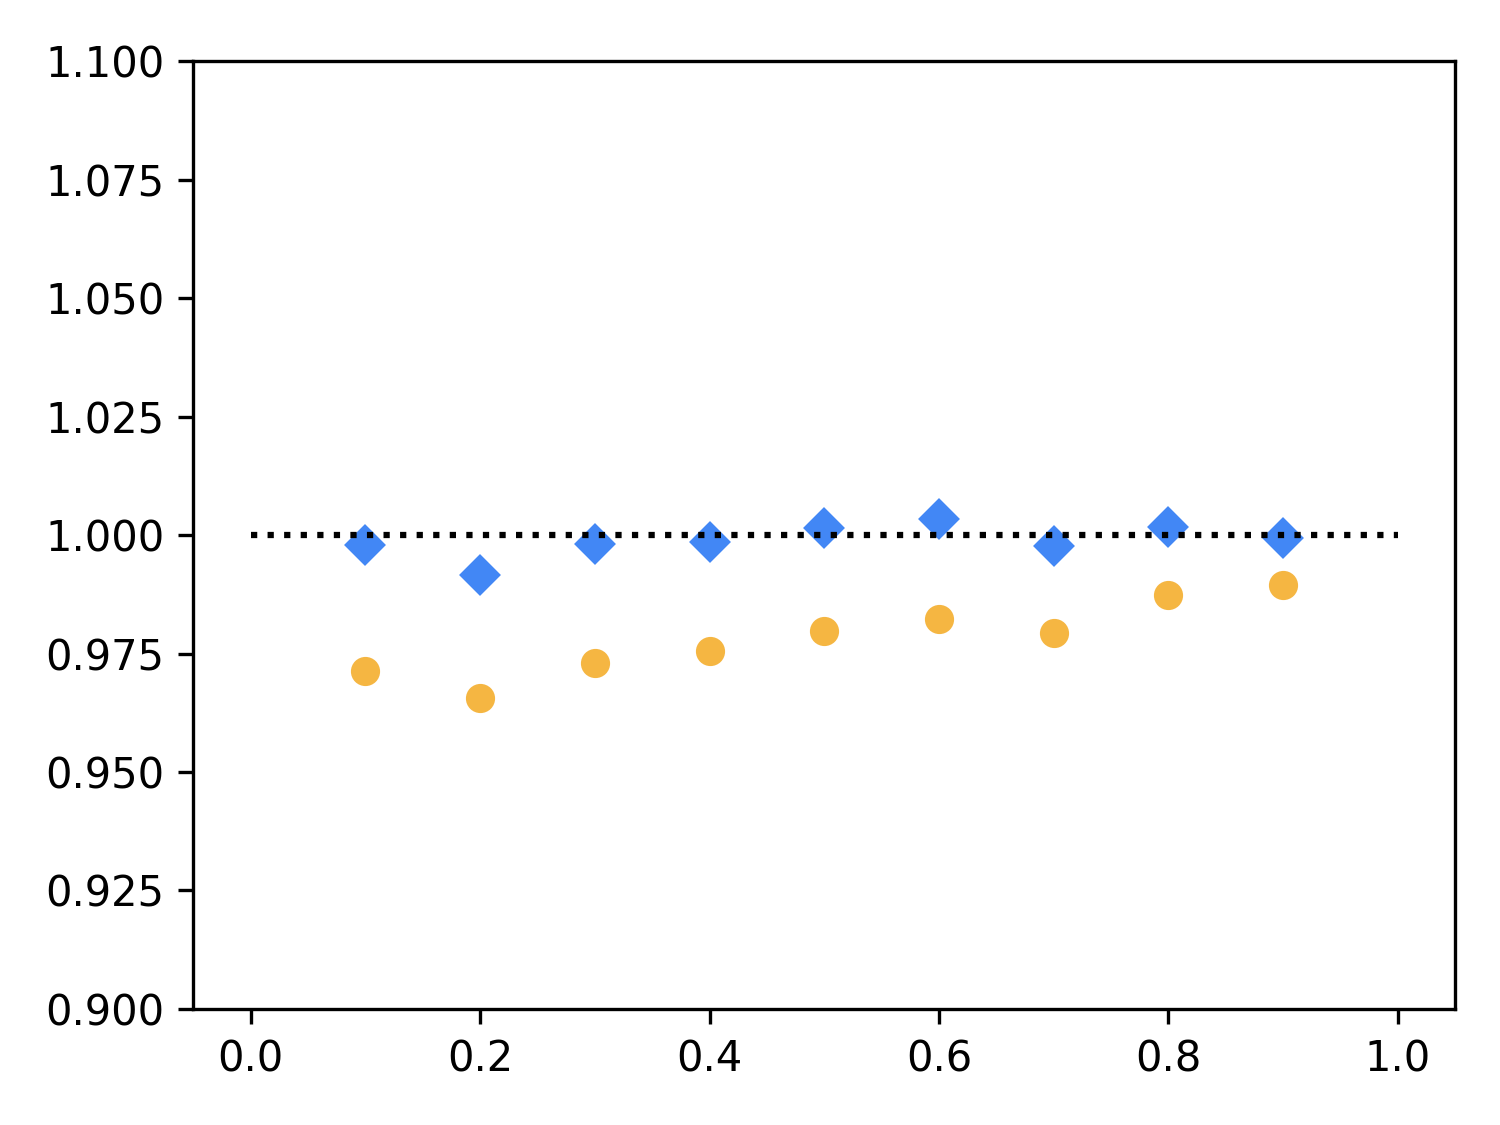
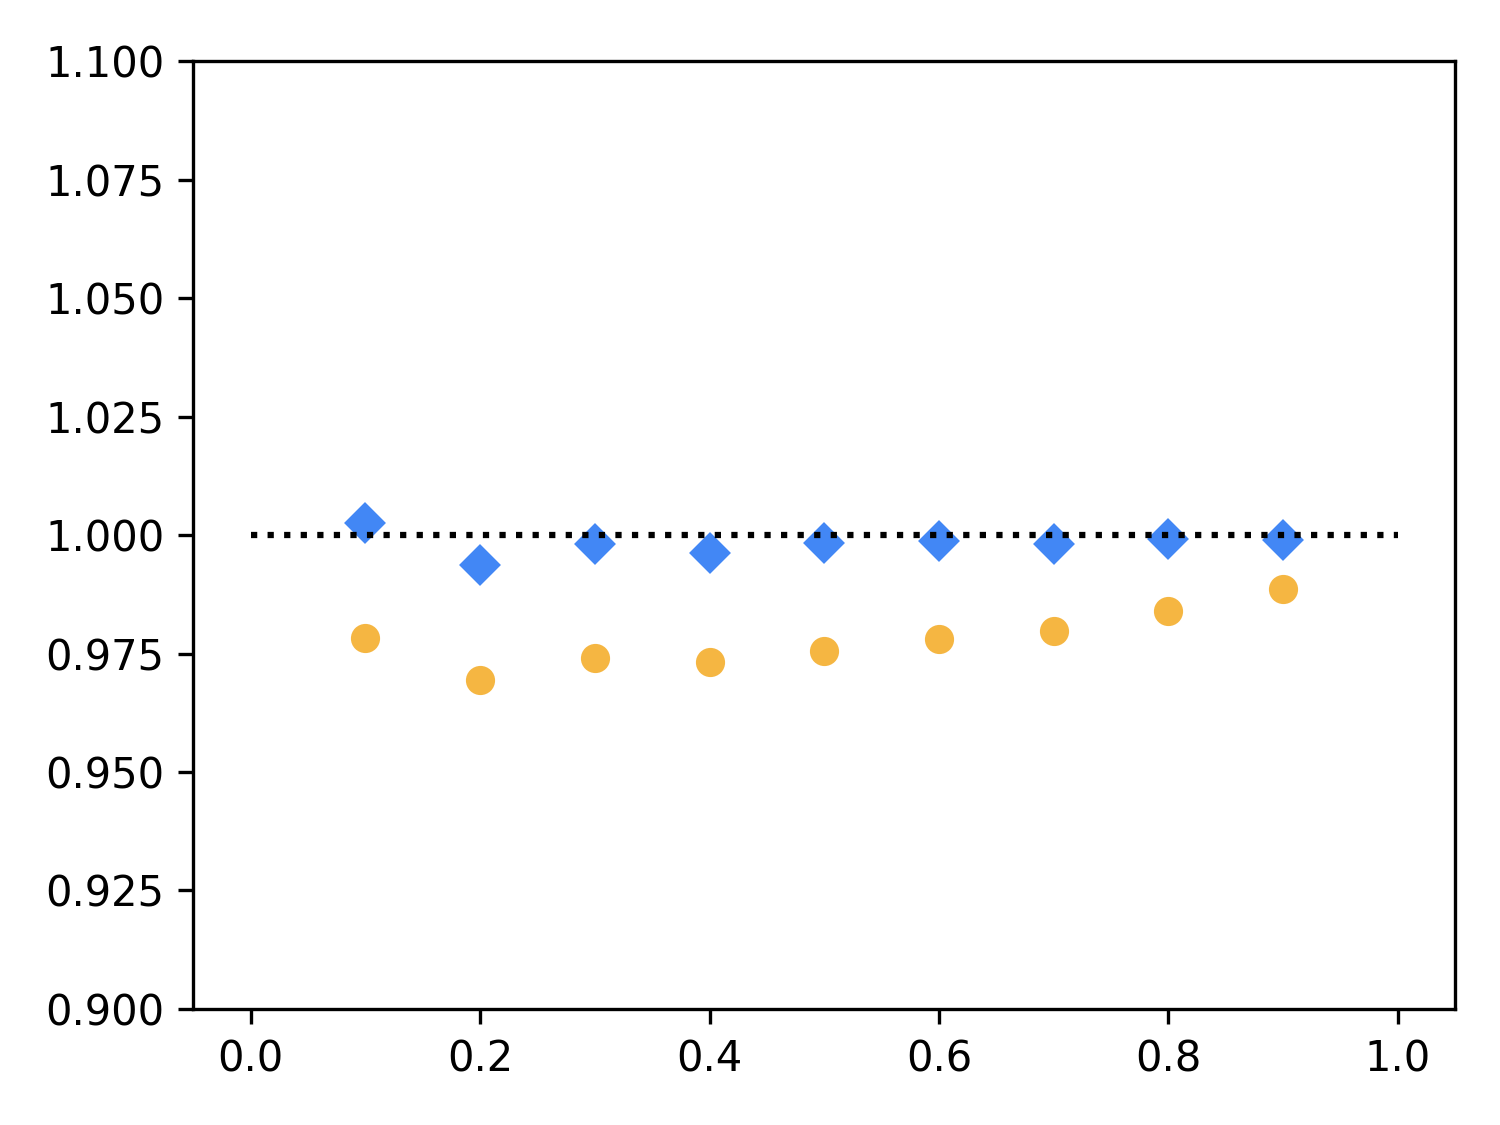
Changed graphs to use real sim_data

diff --git a/evaluate_var_interval.py b/evaluate_var_interval.py
@@ -5,16 +5,7 @@ from calc import interval_estimate
 from util import dot_graph
 from sim import sim_data
 
-mean = 5
-sigma = 1
-
-
-def dummy_data():  # TODO: use sim_data
-    x = np.random.randn(20)
-    x *= sigma
-    x += mean
-
-    return x
+data = None
 
 
 def iteration(values, sigma, inside_probability, make_intentional_error, debug=False):
@@ -27,11 +18,11 @@ def evaluate_interval(inside_probability, iterations=100):
     positive_count_wrong = 0
 
     for i in range(iterations):
-        values = dummy_data()
+        values = data.values[i * 20:(i + 1) * 20]
 
-        if iteration(values, sigma, inside_probability, make_intentional_error=False):
+        if iteration(values, data.sigma, inside_probability, make_intentional_error=False):
             positive_count_right += 1
-        if iteration(values, sigma, inside_probability, make_intentional_error=True):
+        if iteration(values, data.sigma, inside_probability, make_intentional_error=True):
             positive_count_wrong += 1
 
     print()
@@ -62,4 +53,6 @@ def make_graph(iterations=100):
 
 
 if __name__ == "__main__":
+    data = sim_data.SimData.load()
+    print("len(data.values)", len(data.values))
     make_graph(10 ** 5)

diff --git a/evaluate_mean_interval.py b/evaluate_mean_interval.py
@@ -5,16 +5,7 @@ from calc import interval_estimate
 from util import dot_graph
 from sim import sim_data
 
-mean = 5
-sigma = 1
-
-
-def dummy_data():  # TODO: use sim_data
-    x = np.random.randn(20)
-    x *= sigma
-    x += mean
-
-    return x
+data = None
 
 
 def iteration(values, mean, inside_probability, make_intentional_error, debug=False):
@@ -27,11 +18,11 @@ def evaluate_interval(inside_probability, iterations=100):
     positive_count_wrong = 0
 
     for i in range(iterations):
-        values = dummy_data()
+        values = data.values[i * 20:(i + 1) * 20]
 
-        if iteration(values, mean, inside_probability, make_intentional_error=False):
+        if iteration(values, data.mean, inside_probability, make_intentional_error=False):
             positive_count_right += 1
-        if iteration(values, mean, inside_probability, make_intentional_error=True):
+        if iteration(values, data.mean, inside_probability, make_intentional_error=True):
             positive_count_wrong += 1
 
     print()
@@ -62,4 +53,6 @@ def make_graph(iterations=100):
 
 
 if __name__ == "__main__":
+    data = sim_data.SimData.load()
+    print("len(data.values)", len(data.values))
     make_graph(10 ** 5)

diff --git a/evaluate_test_mean.py b/evaluate_test_mean.py
@@ -5,16 +5,7 @@ from calc import test_mean
 from util import dot_graph
 from sim import sim_data
 
-mean = 5
-sigma = 1
-
-
-def dummy_data():  # TODO: use sim_data
-    x = np.random.randn(20)
-    x *= sigma
-    x += mean
-
-    return x
+data = None
 
 
 def iteration(values, mean, error_probability, make_intentional_error, debug=False):
@@ -26,11 +17,11 @@ def evaluate_test_mean(inside_probability, iterations=100):
     positive_count_wrong = 0
 
     for i in range(iterations):
-        values = dummy_data()
+        values = data.values[i * 20:(i + 1) * 20]
 
-        if iteration(values, mean, inside_probability, make_intentional_error=False):
+        if iteration(values, data.mean, inside_probability, make_intentional_error=False):
             positive_count_right += 1
-        if iteration(values, mean, inside_probability, make_intentional_error=True):
+        if iteration(values, data.mean, inside_probability, make_intentional_error=True):
             positive_count_wrong += 1
 
     print()
@@ -60,4 +51,6 @@ def make_graph(iterations=100):
 
 
 if __name__ == "__main__":
+    data = sim_data.SimData.load()
+    print("len(data.values)", len(data.values))
     make_graph(10 ** 5)

diff --git a/doc/buffon.tex b/doc/buffon.tex
@@ -237,12 +237,12 @@ Mannheim, Juni 2020
 			\centering
 			\begin{subfigure}[c]{1\columnwidth}
 				\includegraphics[width=0.9\columnwidth]{images/mean_interval.png}
-				\caption{Mittelwerts Intervall}
+				\caption{Mittelwerts Konfidenzintervall}
 				\label{fig_mean_interval_dot}
 			\end{subfigure}
 			\begin{subfigure}[c]{1\columnwidth}
 				\includegraphics[width=0.9\columnwidth]{images/var_interval.png}
-				\caption{Varianz Intervall}
+				\caption{Varianz Konfidenzintervall}
 				\label{fig_var_interval_dot}
 			\end{subfigure}
 			\caption{Abweichung des tatsächlichen Anteils an korrekt geschätzten Intervallen von dem Konfidenzniveau (y-Achse) für verschiedene Konfidenzniveaus (x-Achse) von dem idealen Wert (schwarz) für Ergebnisse der richtigen Formeln (blau) und der falschen Formeln (gelb).}

diff --git a/generate_graphs.py b/generate_graphs.py
@@ -6,11 +6,11 @@ import make_hist
 import needle_image
 import evaluate_var_interval
 
-evaluate_test_mean.make_graph(1000)
+evaluate_test_mean.make_graph(10**5)
 
-evaluate_mean_interval.make_graph(1000)
+evaluate_mean_interval.make_graph(10**5)
 
-evaluate_var_interval.make_graph(1000)
+evaluate_var_interval.make_graph(10**5)
 
 make_hist.make_graph(50)
 make_hist.make_graph(100)

diff --git a/generate_data.py b/generate_data.py
@@ -2,6 +2,6 @@
 
 from sim import sim_data
 
-sd = sim_data.SimData(100)
-sd.generate(100000)
+sd = sim_data.SimData(1000)
+sd.generate(20 * (10 ** 5))
 sd.save()
